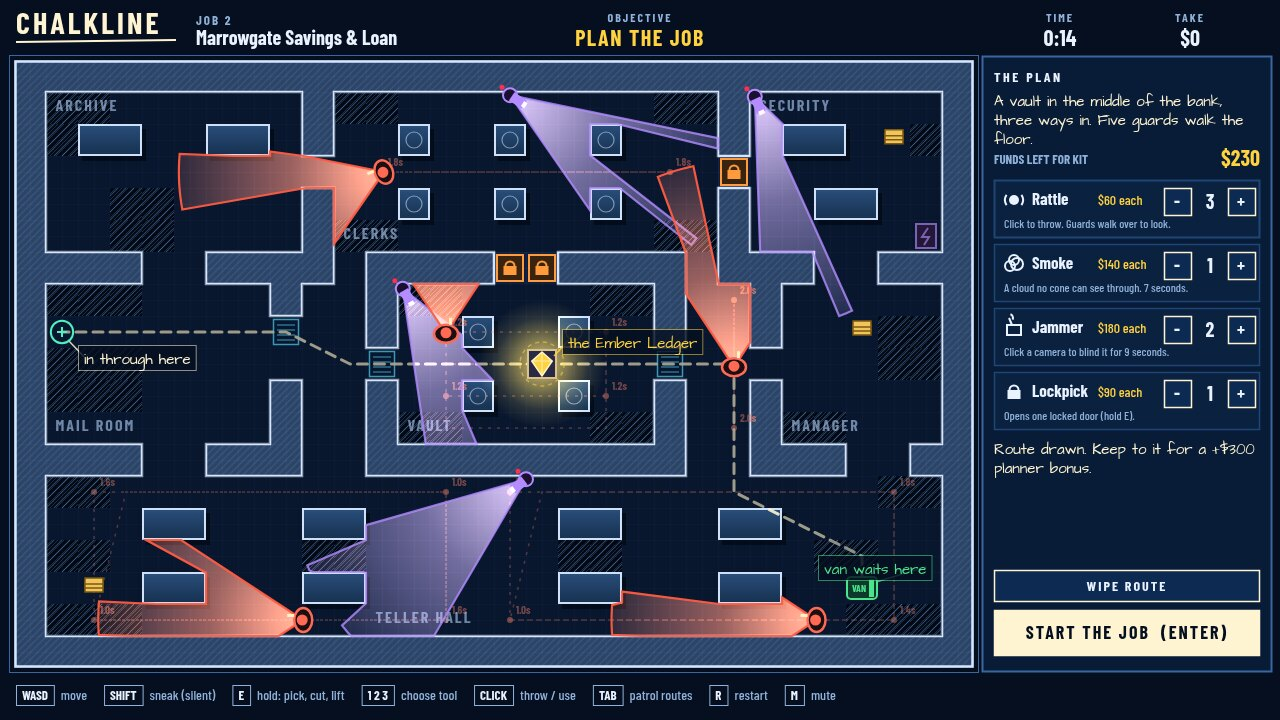
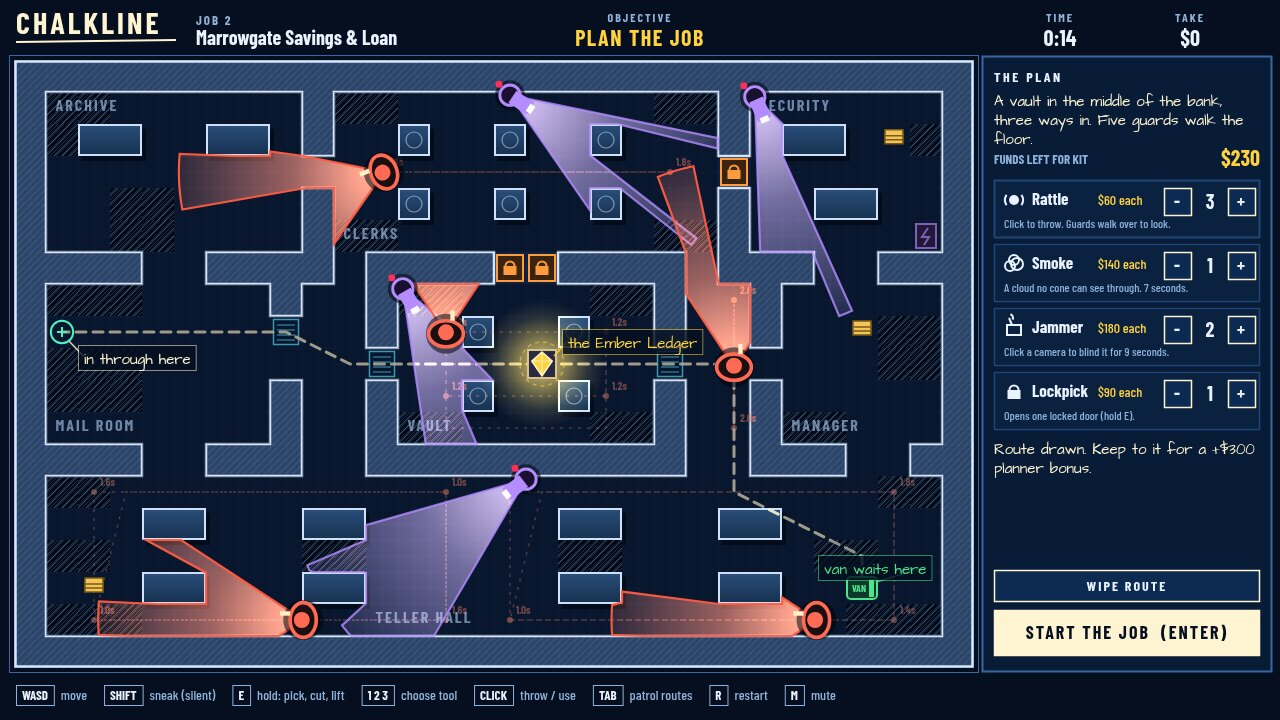
Bigger thief, guard and camera sprites; fewer, larger field notes kept off every guard and camera; thicker alarm bar with the level inside; shorter one-line legend

diff --git a/game/src/actors.js b/game/src/actors.js
@@ -14,6 +14,11 @@ export function drawCamera(ctx, run, camera, time) {
   const off = cameraOffline(run, camera);
   ctx.save();
   ctx.translate(camera.x, camera.y);
+  ctx.fillStyle = 'rgba(2,6,14,0.55)';
+  ctx.beginPath();
+  ctx.arc(0, 0, 15, 0, Math.PI * 2);
+  ctx.fill();
+  ctx.scale(1.45, 1.45);
   ctx.fillStyle = '#1a1030';
   ctx.strokeStyle = off ? '#7d8597' : COLOR.camera;
   ctx.lineWidth = 2;
@@ -30,14 +35,14 @@ export function drawCamera(ctx, run, camera, time) {
   if (!off && Math.floor(time * 2) % 2 === 0) {
     ctx.fillStyle = '#ff2e55';
     ctx.beginPath();
-    ctx.arc(camera.x - 8, camera.y - 8, 2.5, 0, Math.PI * 2);
+    ctx.arc(camera.x - 11, camera.y - 11, 3.5, 0, Math.PI * 2);
     ctx.fill();
   }
   if (off) {
     ctx.strokeStyle = '#c9d2e3';
-    ctx.lineWidth = 1.5;
+    ctx.lineWidth = 2;
     ctx.beginPath();
-    ctx.arc(camera.x, camera.y, 13, -Math.PI / 2, -Math.PI / 2 + Math.PI * 2 * Math.min(1, Math.max(camera.jammed / 9, run.powerCut / 12)));
+    ctx.arc(camera.x, camera.y, 18, -Math.PI / 2, -Math.PI / 2 + Math.PI * 2 * Math.min(1, Math.max(camera.jammed / 9, run.powerCut / 12)));
     ctx.stroke();
   }
 }
@@ -46,7 +51,12 @@ export function drawGuard(ctx, guard, time) {
   const { ring } = coneColors(guard);
   ctx.save();
   ctx.translate(guard.x, guard.y);
+  ctx.fillStyle = 'rgba(2,6,14,0.55)';
+  ctx.beginPath();
+  ctx.arc(0, 0, 20, 0, Math.PI * 2);
+  ctx.fill();
   ctx.rotate(guard.heading);
+  ctx.scale(1.45, 1.45);
   ctx.fillStyle = '#1b0f12';
   ctx.strokeStyle = ring;
   ctx.lineWidth = 2.5;
@@ -67,11 +77,11 @@ export function drawGuard(ctx, guard, time) {
     ctx.strokeStyle = 'rgba(0,0,0,0.45)';
     ctx.lineWidth = 4;
     ctx.beginPath();
-    ctx.arc(guard.x, guard.y, 16, 0, Math.PI * 2);
+    ctx.arc(guard.x, guard.y, 23, 0, Math.PI * 2);
     ctx.stroke();
     ctx.strokeStyle = guard.state === G.CHASE ? COLOR.chase : COLOR.suspect;
     ctx.beginPath();
-    ctx.arc(guard.x, guard.y, 16, -Math.PI / 2, -Math.PI / 2 + Math.PI * 2 * full);
+    ctx.arc(guard.x, guard.y, 23, -Math.PI / 2, -Math.PI / 2 + Math.PI * 2 * full);
     ctx.stroke();
   }
   const mark = guard.state === G.CHASE ? '!' : guard.state === G.SUSPECT || guard.state === G.INVESTIGATE || guard.state === G.SEARCH || guard.state === G.LISTEN ? '?' : '';
@@ -80,12 +90,12 @@ export function drawGuard(ctx, guard, time) {
     const color = mark === '!' ? COLOR.chase : COLOR.suspect;
     ctx.fillStyle = color;
     ctx.beginPath();
-    ctx.arc(guard.x, guard.y - 30 + bob, 9, 0, Math.PI * 2);
+    ctx.arc(guard.x, guard.y - 37 + bob, 10, 0, Math.PI * 2);
     ctx.fill();
     ctx.fillStyle = '#1b0f12';
-    ctx.font = `700 15px ${FONT.ui}`;
+    ctx.font = `700 17px ${FONT.ui}`;
     ctx.textAlign = 'center';
-    ctx.fillText(mark, guard.x, guard.y - 25 + bob);
+    ctx.fillText(mark, guard.x, guard.y - 31 + bob);
     ctx.textAlign = 'left';
   }
 }
@@ -107,7 +117,7 @@ export function drawSpeech(ctx, guard) {
   const w = ctx.measureText(line).width + 16;
   const h = 22;
   const x = Math.max(4, Math.min(MAP.width - w - 4, guard.x - w / 2));
-  const y = Math.max(4, guard.y - 64);
+  const y = Math.max(4, guard.y - 78);
   const color = guard.state === G.CHASE ? COLOR.chase : COLOR.suspect;
   ctx.fillStyle = 'rgba(255,248,228,0.96)';
   ctx.strokeStyle = color;
@@ -143,23 +153,24 @@ export function drawThief(ctx, run, time) {
   ctx.stroke();
   ctx.setLineDash([]);
   ctx.translate(thief.x, thief.y);
-  const glow = ctx.createRadialGradient(0, 0, 4, 0, 0, 26);
-  glow.addColorStop(0, 'rgba(79,240,193,0.45)');
+  const glow = ctx.createRadialGradient(0, 0, 6, 0, 0, 36);
+  glow.addColorStop(0, 'rgba(79,240,193,0.5)');
   glow.addColorStop(1, 'rgba(79,240,193,0)');
   ctx.fillStyle = glow;
   ctx.beginPath();
-  ctx.arc(0, 0, 26, 0, Math.PI * 2);
+  ctx.arc(0, 0, 36, 0, Math.PI * 2);
   ctx.fill();
   if (hidden) {
     ctx.strokeStyle = COLOR.thief;
     ctx.setLineDash([3, 3]);
     ctx.lineWidth = 1.5;
     ctx.beginPath();
-    ctx.arc(0, 0, 15 + Math.sin(time * 4), 0, Math.PI * 2);
+    ctx.arc(0, 0, 22 + Math.sin(time * 4), 0, Math.PI * 2);
     ctx.stroke();
     ctx.setLineDash([]);
   }
   ctx.rotate(thief.heading);
+  ctx.scale(1.4, 1.4);
   ctx.globalAlpha = thief.inVent ? 0.6 : 1;
   ctx.fillStyle = '#062a22';
   ctx.strokeStyle = COLOR.thief;
@@ -178,7 +189,7 @@ export function drawThief(ctx, run, time) {
   ctx.fillRect(-12, -9, 5, 18);
   if (thief.carrying) {
     ctx.rotate(-thief.heading);
-    drawGem(ctx, -10, -10, 6, COLOR.loot);
+    drawGem(ctx, -10, -10, 5, COLOR.loot);
   }
   ctx.restore();
 }
@@ -191,11 +202,11 @@ export function drawTaskRing(ctx, run) {
     ctx.strokeStyle = 'rgba(0,0,0,0.5)';
     ctx.lineWidth = 5;
     ctx.beginPath();
-    ctx.arc(thief.x, thief.y, 20, 0, Math.PI * 2);
+    ctx.arc(thief.x, thief.y, 26, 0, Math.PI * 2);
     ctx.stroke();
     ctx.strokeStyle = thief.task.kind === 'grab' ? COLOR.loot : thief.task.kind === 'fuse' ? COLOR.camera : COLOR.lock;
     ctx.beginPath();
-    ctx.arc(thief.x, thief.y, 20, -Math.PI / 2, -Math.PI / 2 + Math.PI * 2 * t);
+    ctx.arc(thief.x, thief.y, 26, -Math.PI / 2, -Math.PI / 2 + Math.PI * 2 * t);
     ctx.stroke();
   }
   if (task && !thief.task) chalkNote(ctx, thief.x + 18, thief.y + 26, task.label, COLOR.chalk, 14);

diff --git a/game/src/notes.js b/game/src/notes.js
@@ -45,27 +45,26 @@ function nearest(list, x, y, skip) {
 }
 
 /** The notes to show this frame, nearest things first, at most `limit` of them. */
-export function fieldNotes(run, limit = 5) {
+export function fieldNotes(run, limit = 4) {
   const thief = run.thief;
   const notes = [{ subject: thief, text: thiefLine(run), color: run.seenBy.length > 0 ? 'danger' : 'thief' }];
   if (thief.carrying) notes.push({ subject: run.map.exit, text: 'VAN: get here with the mark', color: 'exit' });
   else notes.push({ subject: run.map.mark, text: `${run.job.mark.name.toUpperCase()}: $${run.job.mark.value.toLocaleString('en-US')}`, color: 'loot' });
   const guards = [...run.guards].sort((a, b) => Math.hypot(a.x - thief.x, a.y - thief.y) - Math.hypot(b.x - thief.x, b.y - thief.y));
-  for (const guard of guards.slice(0, 2)) {
-    const color = guard.state === G.CHASE ? 'danger' : guard.state === G.PATROL || guard.state === G.WAIT ? 'guard' : 'suspect';
-    notes.push({ subject: guard, text: guardLine(guard), color });
-  }
+  const guardNote = (guard) => ({ subject: guard, text: guardLine(guard), color: guard.state === G.CHASE ? 'danger' : guard.state === G.PATROL || guard.state === G.WAIT ? 'guard' : 'suspect' });
+  if (guards[0]) notes.push(guardNote(guards[0]));
   const camera = nearest(run.cameras, thief.x, thief.y);
   if (camera) {
     const off = cameraOffline(run, camera);
     const left = Math.ceil(Math.max(camera.jammed, run.powerCut));
     notes.push({ subject: camera, text: off ? `CAMERA: blind for ${left}s` : camera.lock > 0 ? 'CAMERA: has you, recording' : `CAMERA: sweeps, ${Math.round(SIGHT.cameraRange / 32)} tiles deep`, color: 'camera' });
   }
+  if (guards[1]) notes.push(guardNote(guards[1]));
   return notes.slice(0, limit);
 }
 
 const OFFSETS = [
-  [34, -34], [34, 46], [-34, -34], [-34, 46], [48, 6], [-48, 6], [30, -72], [-30, -72], [30, 84], [-30, 84],
+  [40, -38], [40, 52], [-40, -38], [-40, 52], [54, 8], [-54, 8], [34, -80], [-34, -80], [34, 92], [-34, 92],
 ];
 
 function overlaps(a, list) {
@@ -73,11 +72,11 @@ function overlaps(a, list) {
 }
 
 /** Draw the notes in map space (the caller has translated to the map). */
-export function drawFieldNotes(ctx, notes, size = 15) {
+export function drawFieldNotes(ctx, notes, size = 15, avoid = []) {
   ctx.save();
   ctx.font = `${size}px ${FONT.hand}`;
-  // Keep every label off every subject, so a note never hides the thing it explains.
-  const placed = notes.map((note) => ({ x: note.subject.x - 16, y: note.subject.y - 16, w: 32, h: 32 }));
+  // Keep every label off every subject and every guard or camera, so a note never hides what it explains.
+  const placed = [...notes.map((note) => note.subject), ...avoid].map((point) => ({ x: point.x - 22, y: point.y - 22, w: 44, h: 44 }));
   for (const note of notes) {
     const width = ctx.measureText(note.text).width + 12;
     const height = size + 10;
@@ -93,7 +92,7 @@ export function drawFieldNotes(ctx, notes, size = 15) {
     }
     if (!spot) continue;
     placed.push(spot.box);
-    const anchor = { x: note.subject.x + Math.sign(spot.x - note.subject.x) * 10, y: note.subject.y };
+    const anchor = { x: note.subject.x + Math.sign(spot.x - note.subject.x) * 16, y: note.subject.y };
     note.placed = { x: spot.x, y: spot.y, from: anchor };
   }
   for (const note of notes) {

diff --git a/game/src/hud.js b/game/src/hud.js
@@ -75,7 +75,7 @@ function drawAlarmMeter(ctx, run, x, y, w) {
   tracked(ctx, label, x + w, y + 14, 14, labelColor, 2, 700, 'right');
 
   const barY = y + 24;
-  const barH = 22;
+  const barH = 28;
   ctx.fillStyle = '#04101f';
   ctx.fillRect(x, barY, w, barH);
   const fill = (w * level) / ALARM.lockdown;
@@ -101,9 +101,10 @@ function drawAlarmMeter(ctx, run, x, y, w) {
   ctx.fillText('CALM', x + 3, barY + barH + 14);
   ctx.fillText('ALERT', x + (w * ALARM.floors[1]) / 100 + 3, barY + barH + 14);
   ctx.fillText('HUNT', x + (w * ALARM.floors[2]) / 100 + 3, barY + barH + 14);
-  text(ctx, `${Math.round(level)}%`, x + w, barY + barH + 14, 12, COLOR.ink, 700, 'right');
-  if (lock) text(ctx, `Police in ${Math.ceil(run.lockdown)}s`, x, barY + barH + 32, 15, COLOR.danger, 700);
-  else text(ctx, run.alarm > 0.5 && run.lastAlarmReason ? run.lastAlarmReason : 'Settles back while nobody sees you', x, barY + barH + 32, 13, COLOR.dim, 500);
+  if (fill > 34) text(ctx, `${Math.round(level)}%`, x + fill - 6, barY + barH - 8, 15, COLOR.night, 700, 'right');
+  else text(ctx, `${Math.round(level)}%`, x + fill + 6, barY + barH - 8, 15, COLOR.ink, 700);
+  if (lock) text(ctx, `Police in ${Math.ceil(run.lockdown)}s`, x, barY + barH + 30, 15, COLOR.danger, 700);
+  else text(ctx, run.alarm > 0.5 && run.lastAlarmReason ? run.lastAlarmReason : 'Settles back while nobody sees you', x, barY + barH + 30, 13, COLOR.dim, 500);
 }
 
 function drawEye(ctx, x, y, color, open) {
@@ -278,25 +279,24 @@ function legendSwatch(ctx, kind, x, y) {
 }
 
 const LEGEND = [
-  ['guard', 'Guard + torch cone', 'red cone, amber when wary'],
-  ['camera', 'Camera, sweeping', 'jam it or cut the fuse'],
-  ['lamp', 'Lamplit floor: exposed', 'a cone here sees you'],
-  ['shadow', 'Shadow: hidden', 'unless a guard is on you'],
-  ['cover', 'Cases: block sight', ''],
-  ['vent', 'Vent: crawl unseen', ''],
-  ['lock', 'Locked door', 'costs a lockpick'],
-  ['loot', 'The mark', 'cash stacks are a bonus'],
-  ['van', 'Getaway van', 'reach it with the mark'],
+  ['guard', 'Guard torch: red, amber when wary'],
+  ['camera', 'Camera: jam it or cut its fuse'],
+  ['lamp', 'Lamplit floor: exposed'],
+  ['shadow', 'Shadow: hidden'],
+  ['cover', 'Cases: block sight'],
+  ['vent', 'Vent: crawl unseen'],
+  ['lock', 'Locked door: one lockpick'],
+  ['loot', 'The mark, worth the job'],
+  ['van', 'Getaway van'],
 ];
 
 function drawLegend(ctx, x, y, w) {
   tracked(ctx, 'LEGEND', x, y + 14, 14, COLOR.ink, 2.5);
-  let rowY = y + 32;
-  for (const [kind, name, note] of LEGEND) {
-    legendSwatch(ctx, kind, x + 12, rowY - 4);
-    text(ctx, name, x + 30, rowY + 1, 14, COLOR.ink, 500);
-    if (note) text(ctx, note, x + w, rowY + 1, 12, COLOR.dim, 500, 'right');
-    rowY += 21;
+  let rowY = y + 36;
+  for (const [kind, name] of LEGEND) {
+    legendSwatch(ctx, kind, x + 12, rowY - 5);
+    text(ctx, name, x + 32, rowY + 1, 15, COLOR.ink, 500);
+    rowY += 24;
   }
 }
 

diff --git a/game/src/main.js b/game/src/main.js
@@ -202,7 +202,7 @@ export function draw(options = {}) {
   if (notes) {
     ctx.save();
     ctx.translate(MAP.x, MAP.y);
-    drawFieldNotes(ctx, fieldNotes(run, options.noteLimit ?? 5), 17);
+    drawFieldNotes(ctx, fieldNotes(run, options.noteLimit ?? 4), 19, [...run.guards, ...run.cameras]);
     ctx.restore();
   }
   if (planning) startMarker(ctx, run);
